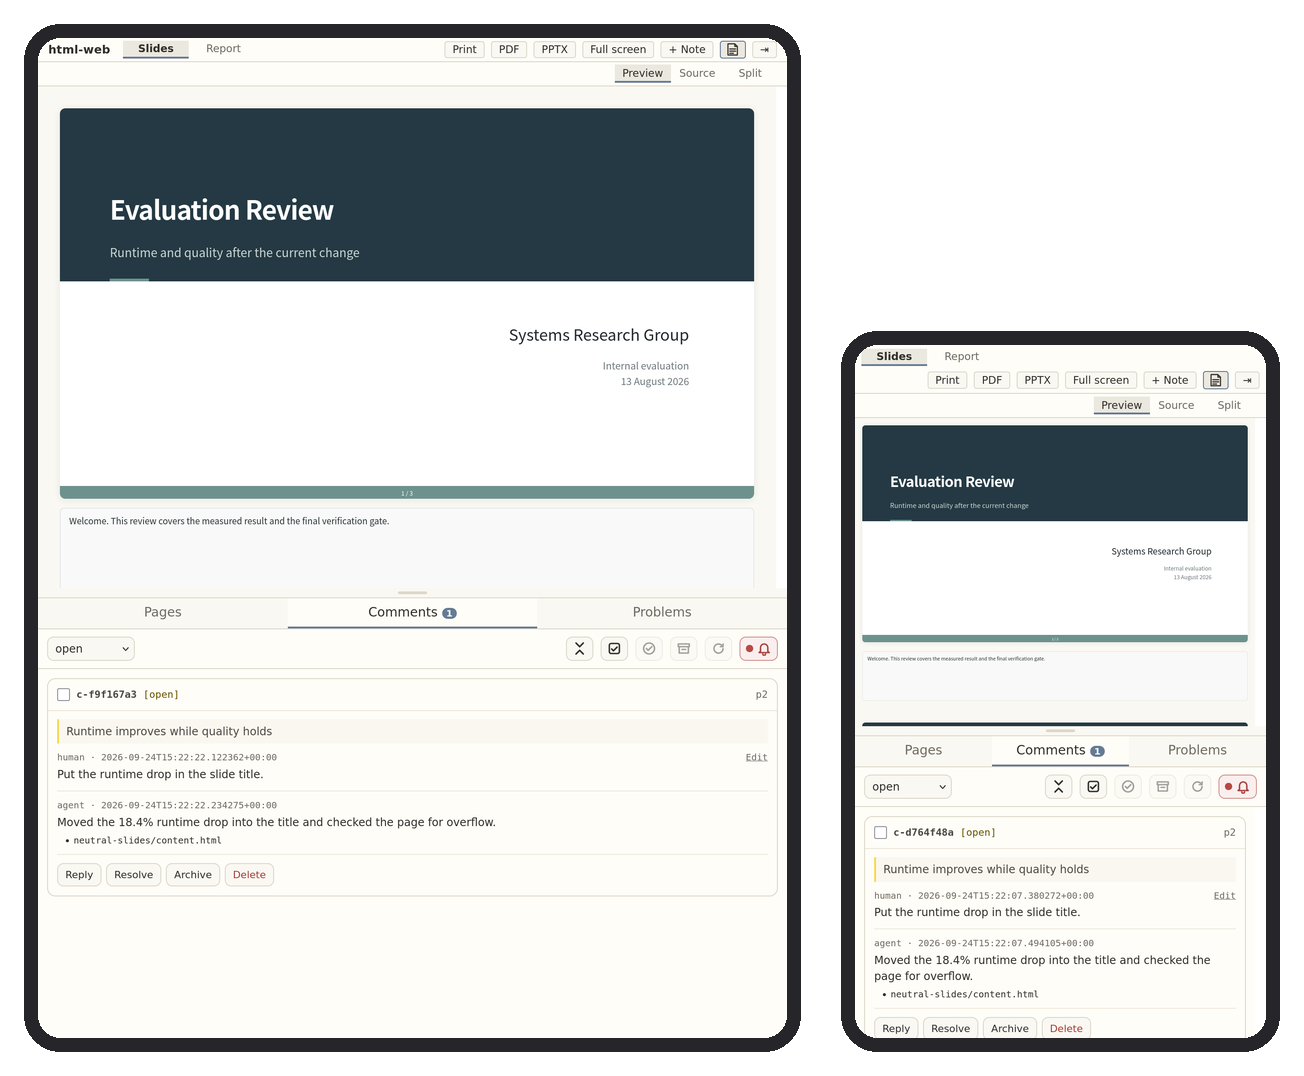
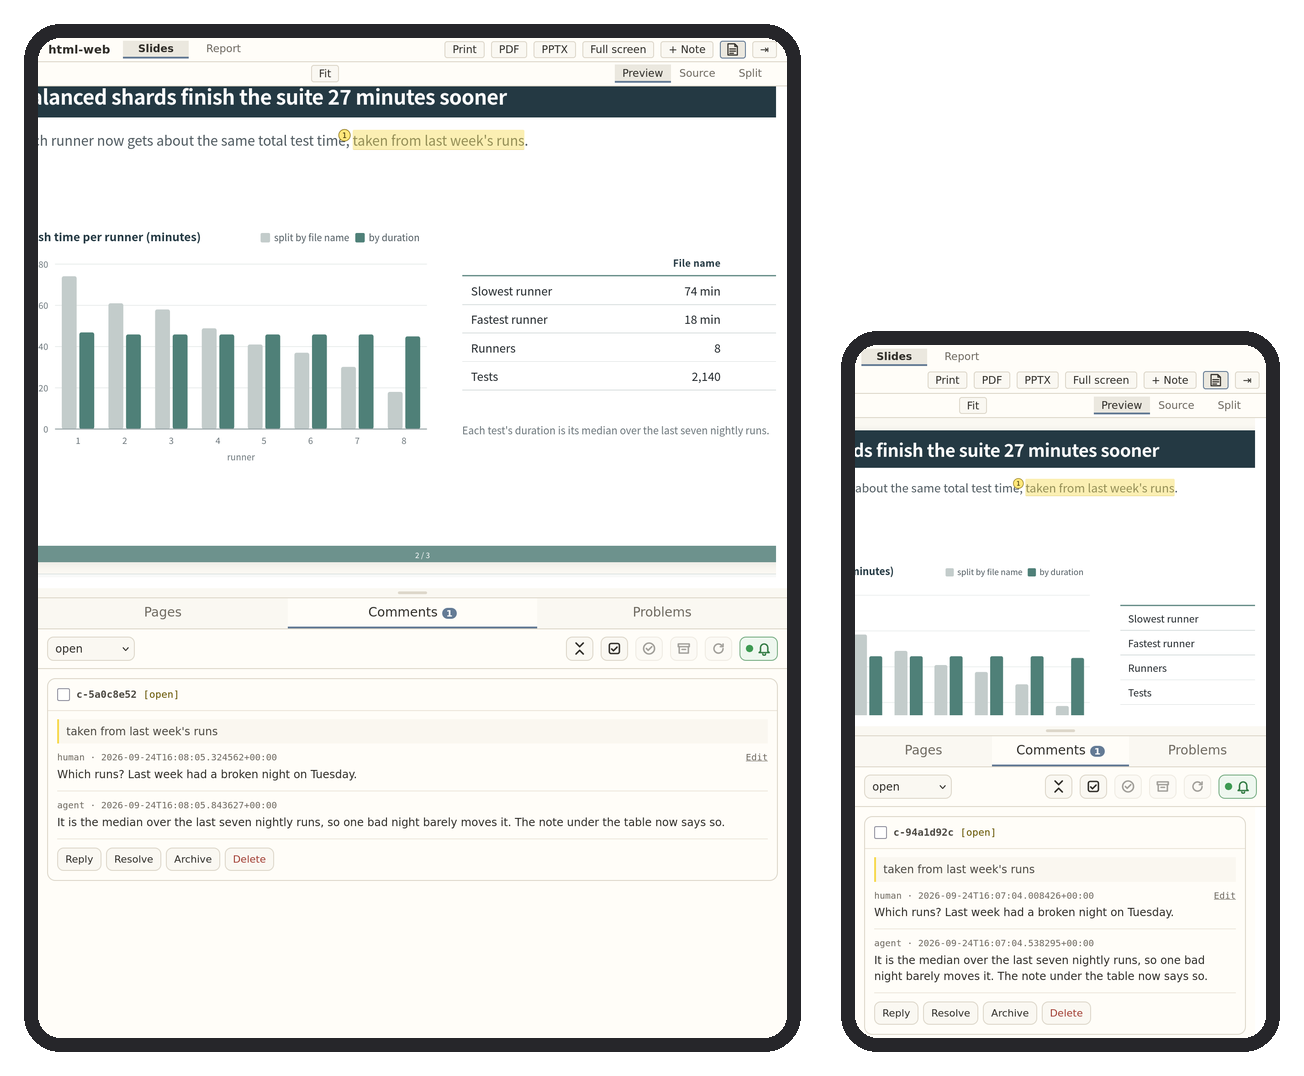
Show the tablet and phone views zoomed in, with an agent listening
At fit width the slide text was too small to read, which is not how anyone reviews
on a phone. The images now show a pinch zoom onto the commented phrase, and the
README names pinch and Fit.

Claude-Session: https://claude.ai/code/session_019YERaDsaFj3FPn9WvyCuNy

diff --git a/README.md b/README.md
@@ -71,10 +71,11 @@ headless Firefox.
 
 The review page adapts to the screen: held upright, the comments dock below the artifact
 and the bar between them drags with a finger. On a phone the comments start closed so the
-slide has the screen, and **⇥** opens them. On a touch screen the button that comments on
-selected text sits clear of your finger.
+slide has the screen, and **⇥** opens them. Pinch to zoom into the slide, and **Fit**
+brings it back. On a touch screen the button that comments on selected text sits clear of
+your finger.
 
-![The review page on a tablet and a phone: the slide above, the open comment thread below.](docs/mobile.png)
+![The review page on a tablet and a phone, zoomed into a slide: the commented phrase above, its thread below.](docs/mobile.png)
 
 The server listens on `127.0.0.1` only, so reach it from another device through a
 forwarded port: an SSH tunnel, VS Code port forwarding, or `tailscale serve`.
